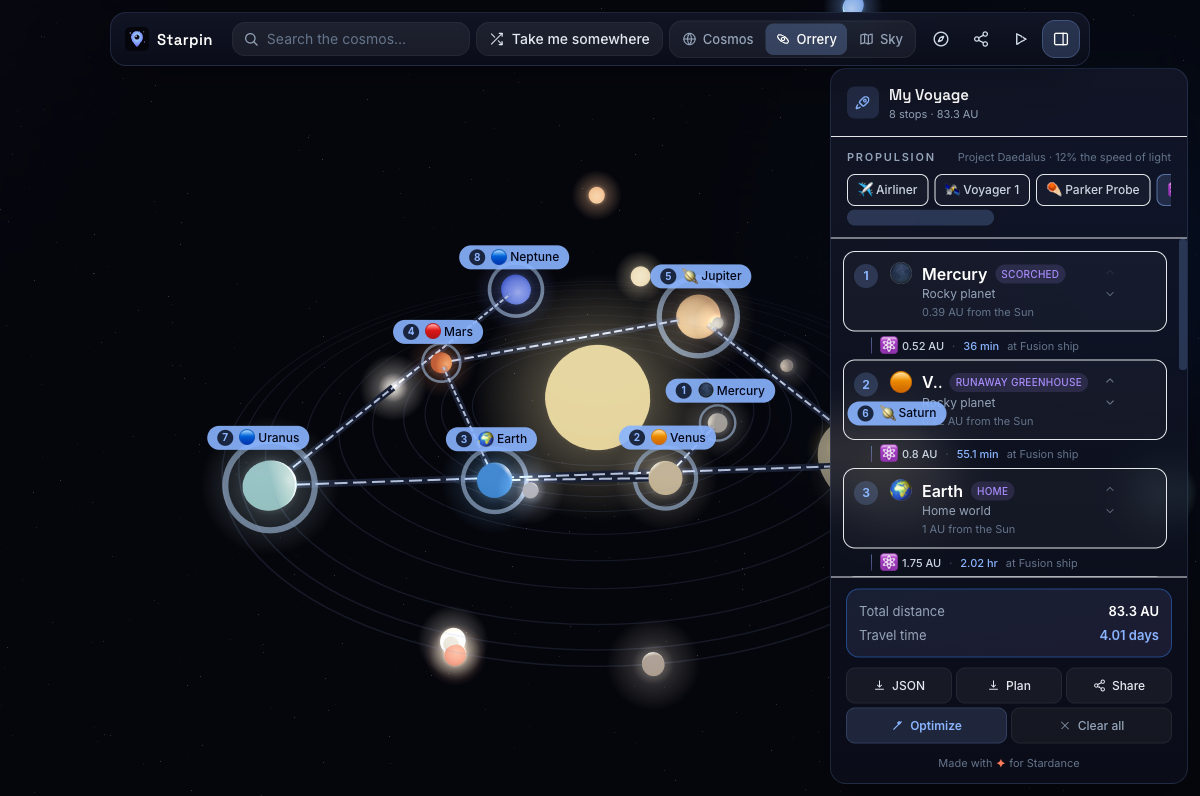
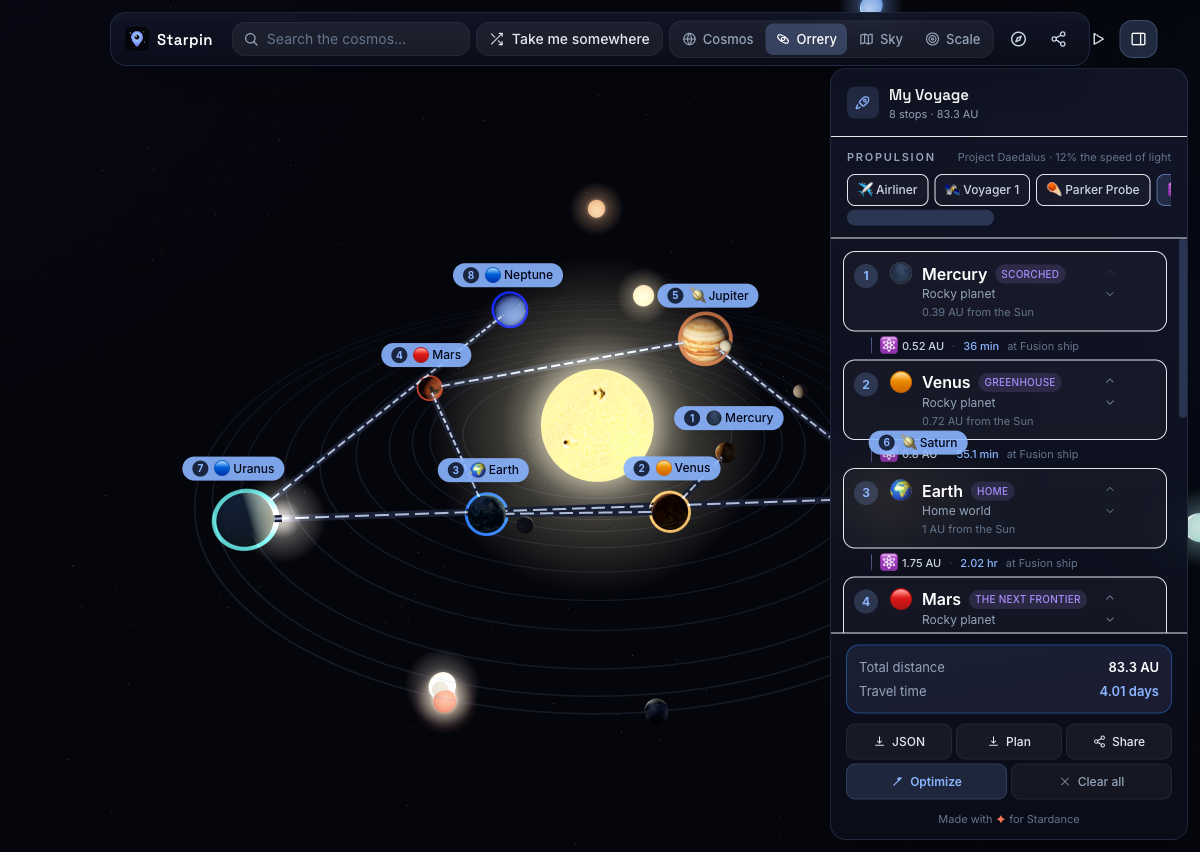
docs: v2 README — Scale mode, photoreal/Blender planets, cosmic objects, credits

diff --git a/README.md b/README.md
@@ -4,9 +4,9 @@
 
 ### Plan voyages across a living universe.
 
-Drop pins on **real** planets, moons, stars, exoplanets, nebulae and galaxies — chain them into an
-interstellar voyage, pick a propulsion system, and watch the real light‑years and travel‑times unfold
-on a living 3D cosmos.
+Drop pins on **real** planets, moons, stars, exoplanets, nebulae, black holes, quasars and galaxies —
+chain them into an interstellar voyage, pick a propulsion system, and watch the real light‑years and
+travel‑times unfold on a living, photoreal 3D cosmos.
 
 **Built for [Stardance](https://stardance.hackclub.com) — the NASA × Hack Club summer challenge.**
 
@@ -21,69 +21,90 @@ on a living 3D cosmos.
 ## ✨ What it is
 
 [Wanderpin](https://wanderpin-ecru.vercel.app) lets you plan trips on a living globe. **Starpin is the same idea,
-scaled up to the whole universe.** Instead of cities you pin worlds; instead of trains and flights you pick
-a spacecraft; instead of kilometres you cross light‑years.
-
-Every destination uses **real astronomical data** — sky coordinates (RA/Dec), distances from Earth, and facts
-sourced from NASA fact sheets, the NASA Exoplanet Archive, Hubble/JWST imaging, and SIMBAD/Gaia.
+scaled up to the whole universe.** Instead of cities you pin worlds; instead of trains and flights you pick a
+spacecraft; instead of kilometres you cross light‑years — and you can zoom all the way out from your back yard
+to the edge of the observable universe.
 
 ## 🚀 Features
 
-- **A living 3D cosmos** — a hand‑built three.js universe: the Sun and planets on orbital rings, a deep
-  starfield, drifting nebulae, and 45 real destinations placed in their true sky directions.
-- **Three views**, mirroring a map app's Globe / 3D / 2D:
-  - **Cosmos** — the whole sky, log‑scaled so the Moon and the Andromeda Galaxy are both reachable.
-  - **Orrery** — a focused, slowly‑orbiting Solar System.
-  - **Sky Map** — a flat right‑ascension × declination star chart.
-- **Build a voyage** — click any world to inspect it (facts + NASA stats) and add it to your route.
+- **Photoreal planets** — every world uses real NASA/CC surface maps. Earth has drifting clouds, glowing
+  night‑side cities, ocean specular and a blue atmosphere; Saturn has its rings; the gas giants their bands;
+  each planet its true axial tilt. Fly up to one and it looks *real*.
+- **The Scale of the Universe** — a smooth log‑zoom (inspired by [htwins.net/scale2](https://htwins.net/scale2/))
+  from Earth → the Moon → the Solar System → the nearest stars → the Milky Way → the Local Group → Laniakea →
+  the cosmic web → the **observable universe**, with a live `10^X m` readout the whole way out.
+- **Four views** — **Cosmos** (the whole sky, log‑scaled), **Orrery** (the living Solar System), **Sky Map**
+  (a flat RA/Dec star chart), and **Scale**.
+- **Build a voyage** — click any world to inspect it (facts, NASA stats, and a Blender‑rendered portrait) and
+  add it to your route.
 - **Real travel‑times** — choose a propulsion system and every leg recomputes:
-  ✈️ airliner → 🛰️ Voyager 1 → ☄️ Parker Solar Probe → ⚛️ fusion ship → ✨ light speed → 🌀 warp.
-  A trip to Andromeda at Voyager speed takes longer than the universe has existed. Light speed barely helps.
-- **Optimize, share, export** — nearest‑neighbour route optimization, shareable URLs, and JSON / mission‑plan
-  exports.
-- **Curated journeys** — the Grand Tour of the Solar System, Voyager's path, the hunt for Earth 2.0,
-  JWST's greatest hits, a deep‑sky marathon, and a ride to the edge of the sky.
+  ✈️ airliner → 🛰️ Voyager 1 → ☄️ Parker Solar Probe → ⚛️ fusion ship → 💫 10% c → ✨ light speed → 🌀 warp.
+  A hop to Andromeda at Voyager's speed takes longer than the universe has existed.
+- **Everything out there** — 50 destinations including the Sgr A\* and M87\* black holes, the 3C 273 and
+  TON 618 quasars, the Virgo Cluster and the eerie Boötes Void.
+- **Optimize, share, export** — route optimization, shareable URLs, JSON / mission‑plan exports, a guided tour.
+
+## 🎨 Ultra‑realistic planets, rendered in Blender
+
+The portraits in the inspector are rendered headless with **Blender (Cycles)** — real surface maps on a
+sphere, a key/rim light pair for a true terminator, bump displacement, and a fresnel atmosphere shell.
+Reproduce them with `blender -b -P blender/render_planets.py`.
+
+<div align="center">
+
+![Earth](docs/render_earth.png) ![Mars](docs/render_mars.png) ![Saturn](docs/render_saturn.png)
+
+*Earth · Mars · Saturn — Cycles renders used as inspector heroes.*
+
+</div>
 
 ## 🔭 The science
 
-Distances and travel‑times are **real**. The visual map is log‑compressed so a 1‑light‑second hop to the Moon
-and a 290‑million‑light‑year jump to Stephan's Quintet can coexist on one screen — but the numbers in the
-panel are computed from true 3D positions:
+Distances and travel‑times are **real**; the visual map is log‑compressed so a 1‑light‑second hop to the Moon
+and a 290‑million‑light‑year jump to Stephan's Quintet fit on one screen. Deep‑sky objects are placed by their
+true right‑ascension / declination and distance; each leg is the straight‑line distance between two bodies,
+and travel time is `distance ÷ propulsion speed`.
 
-- Deep‑sky objects are placed by their real **right ascension / declination** and distance from Earth.
-- Each leg's length is the straight‑line distance between two bodies in light‑years; travel time is
-  `distance ÷ propulsion speed`, formatted from seconds up to gigayears.
+The catalogue was **fact‑checked** against NASA fact sheets, the NASA Exoplanet Archive, ESA Gaia and SIMBAD.
 
-> Distances within the Solar System use a fixed positional snapshot (planets actually move), so Earth→Mars is a
-> representative ~1.7 AU rather than a specific date's value. Interstellar distances are exact.
-
-**Data sources:** NASA Planetary Fact Sheets (nssdc.gsfc.nasa.gov), NASA Exoplanet Archive, NASA/Hubble/JWST
-mission pages, ESA Gaia, and SIMBAD. Every body lists its source in the inspector.
+> Solar‑System distances use a fixed positional snapshot (planets move), so Earth→Mars is a representative
+> ~1.7 AU. Interstellar distances are exact.
 
 ## 🛠️ Tech
 
 React 19 · TypeScript · Vite · **three.js** + React‑Three‑Fiber + drei · Tailwind CSS · Framer Motion ·
-Zustand. No backend — it's all in the browser, voyages persist to `localStorage` and to shareable URLs.
+Zustand · **Blender** (Cycles) for the planet portraits. No backend — voyages persist to `localStorage` and
+shareable URLs.
 
 ## ▶ Run locally
 
 ```bash
 npm install
-npm run dev      # http://localhost:5173
-npm run build    # production build → dist/
+npm run dev                          # http://localhost:5173
+npm run build                        # production build → dist/
+blender -b -P blender/render_planets.py   # (optional) re-render the planet portraits
 ```
 
 ## 📁 Structure
 
 ```
 src/
-  data/cosmos.ts     # the curated, fact-checked catalogue of 45 destinations + preset journeys
+  data/cosmos.ts     # 50 fact-checked destinations + preset journeys
+  data/textures.ts   # planet surface-map config (maps, tilt, rings, atmosphere)
   lib/astro.ts       # coordinate math, distance & travel-time engine, formatting
-  lib/voyage.ts      # per-leg distance/time computation
-  three/             # the 3D scene: Starfield, Bodies, VoyageRoute, CameraRig, CosmosScene
-  ui/                # Toolbar, Onboarding, VoyagePanel, Inspector, SkyChart
-  store/useVoyage.ts # Zustand state (stops, view, propulsion, playback)
+  three/             # 3D scene: Planet (photoreal), Bodies, Starfield, VoyageRoute, CameraRig
+  ui/                # Toolbar, Onboarding, VoyagePanel, Inspector, SkyChart, ScaleMode
+  store/useVoyage.ts # Zustand state
+blender/render_planets.py  # headless Cycles planet portraits
+public/textures/, public/renders/
 ```
+
+## 🙏 Credits
+
+- Planet surface maps: NASA imagery via the [three.js](https://github.com/mrdoob/three.js) examples and the
+  [planetpixelemporium](http://planetpixelemporium.com/planets.html) / Solar System Scope (CC‑BY) texture sets.
+- Scale concept inspired by Cary & Michael Huang's [Scale of the Universe 2](https://htwins.net/scale2/).
+- Astronomical data: NASA, ESA/Gaia, SIMBAD, the NASA Exoplanet Archive.
 
 ## 📝 License
 